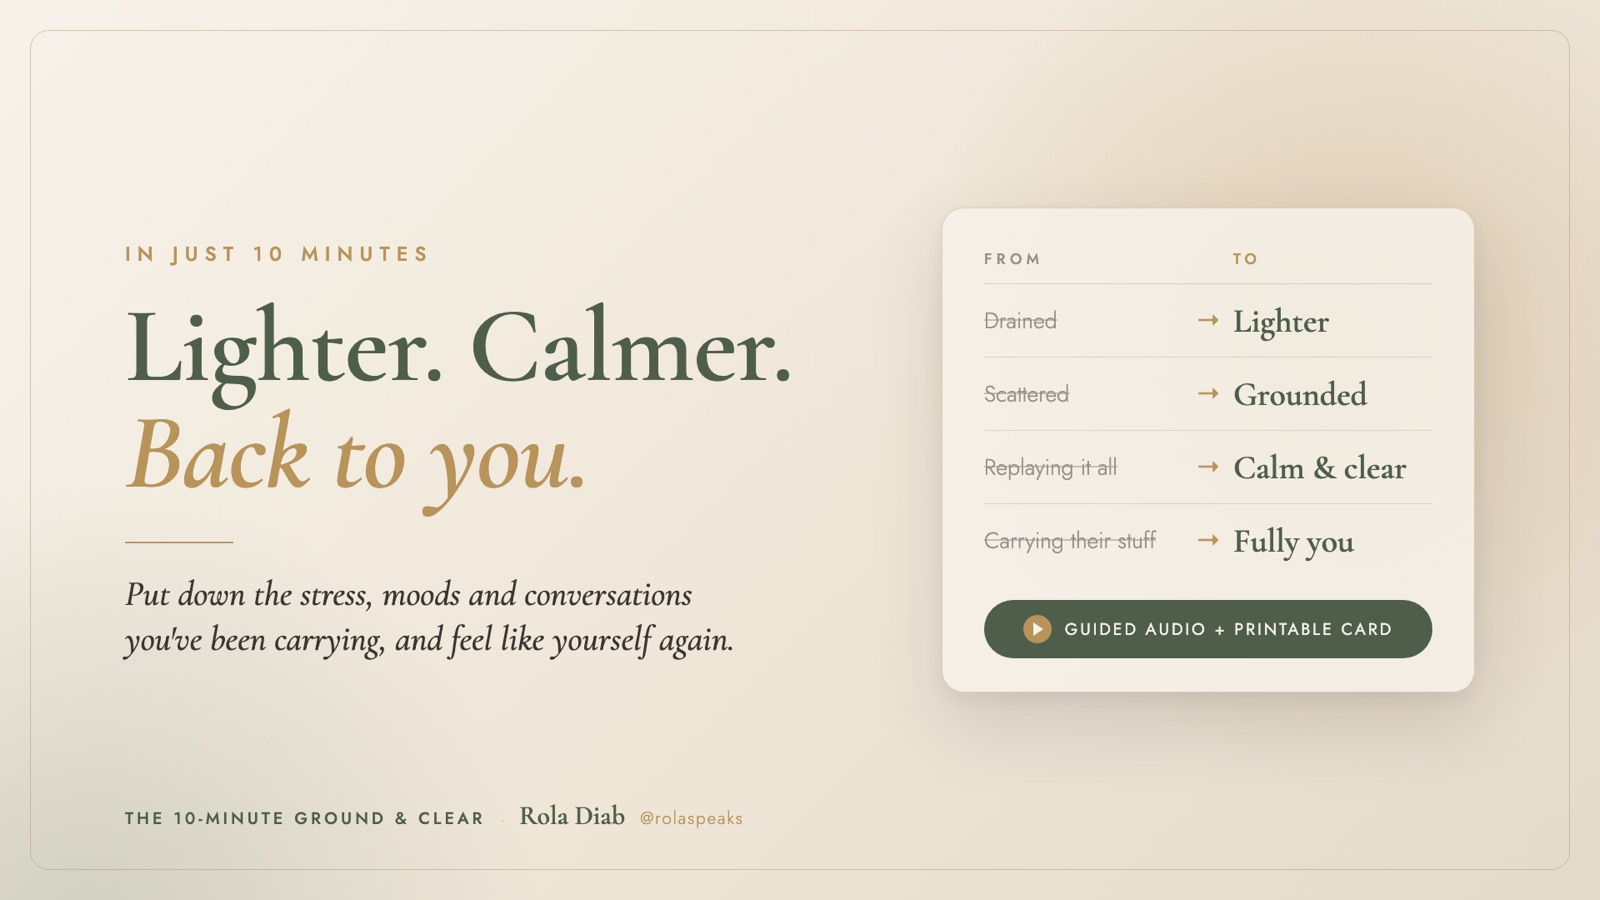
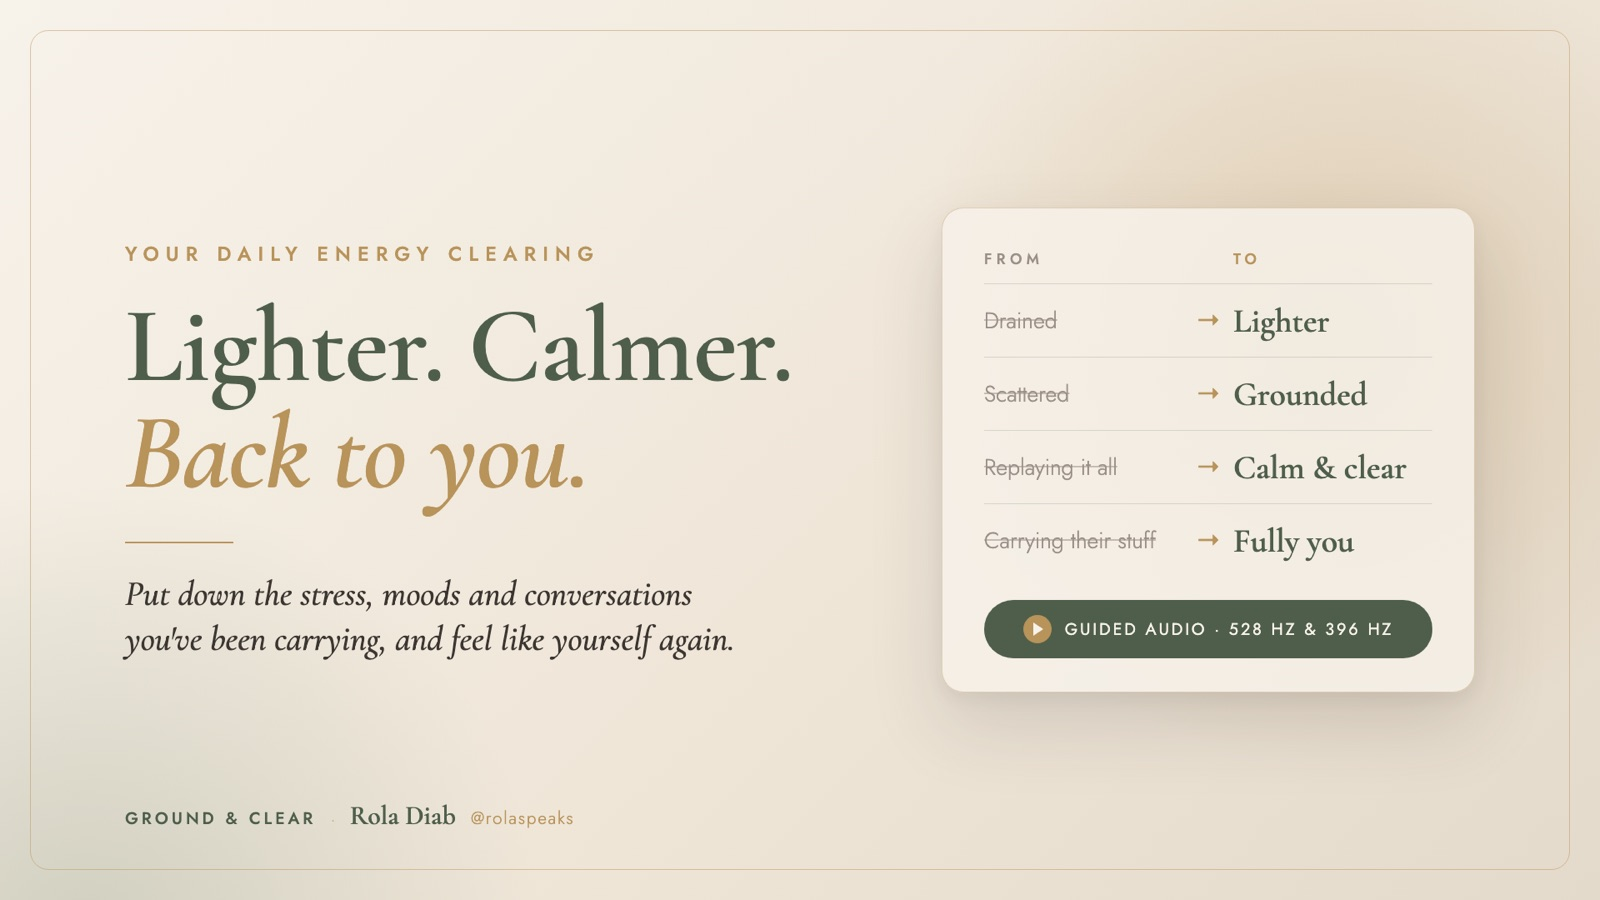
Update Ground & Clear card: 15 min, $25, new Whop link
Rename to Ground & Clear, describe the 15-minute daily practice with
heart breathing and 528/396 Hz frequencies, list what's included,
set price to $25, point the button at the live Whop product, and
refresh the cover image.

diff --git a/products/index.html b/products/index.html
@@ -9,7 +9,7 @@
   <meta property="og:description" content="Guided practices and tools from Rola Diab you can use today, on your own time.">
   <meta property="og:url" content="https://businessmanifesting.com/products/">
   <meta property="og:type" content="website">
-  <meta property="og:image" content="https://businessmanifesting.com/products/ground-and-clear.jpg">
+  <meta property="og:image" content="https://businessmanifesting.com/products/ground-and-clear.jpg?v=2">
   <meta name="theme-color" content="#12335C">
   <link rel="icon" href="/favicon.svg" type="image/svg+xml">
   <link rel="stylesheet" href="/styles.css?v=105">
@@ -30,18 +30,19 @@
   <section class="formats-band products-band">
     <div class="product-grid">
       <article class="product-card">
-        <img src="/products/ground-and-clear.jpg" alt="The 10-Minute Ground and Clear: lighter, calmer, back to you" width="1600" height="900">
+        <img src="/products/ground-and-clear.jpg?v=2" alt="Ground and Clear: lighter, calmer, back to you" width="1600" height="900">
         <div class="product-body">
-          <p class="num">Guided audio &nbsp;·&nbsp; 10 minutes</p>
-          <h3>The 10-Minute Ground &amp; Clear</h3>
-          <p>Put down the stress, moods and conversations you've been carrying, and feel like yourself again. A guided audio practice plus a printable Quick Clear card for busy moments.</p>
+          <p class="num">Daily energy clearing &nbsp;·&nbsp; 15 minutes</p>
+          <h3>Ground &amp; Clear</h3>
+          <p>Breathe into your heart, ground your energy, and release what isn't yours: the stress, moods and family energy you've been carrying. A guided practice layered with 528 Hz and 396 Hz frequencies, to use every day.</p>
           <ul class="program-list">
-            <li><strong>Guided audio.</strong> About 10 minutes. Listen anytime.</li>
-            <li><strong>Quick Clear card.</strong> A printable 60-second version.</li>
+            <li><strong>Guided meditation.</strong> 15 minutes, with music and healing frequencies. Best with headphones.</li>
+            <li><strong>Start Here audio.</strong> 3 minutes on why we clear our energy and how it works.</li>
+            <li><strong>The Consciousness Scale</strong> and a printable <strong>Quick Clear card</strong>.</li>
           </ul>
           <div class="product-buy">
-            <span class="price">$17</span>
-            <a class="btn" href="https://whop.com/rola-diab-218e/the-10-minute-ground-clear/" target="_blank" rel="noopener">Get instant access</a>
+            <span class="price">$25</span>
+            <a class="btn" href="https://whop.com/rola-diab-218e/ground-and-clear/" target="_blank" rel="noopener">Get instant access</a>
           </div>
         </div>
       </article>
